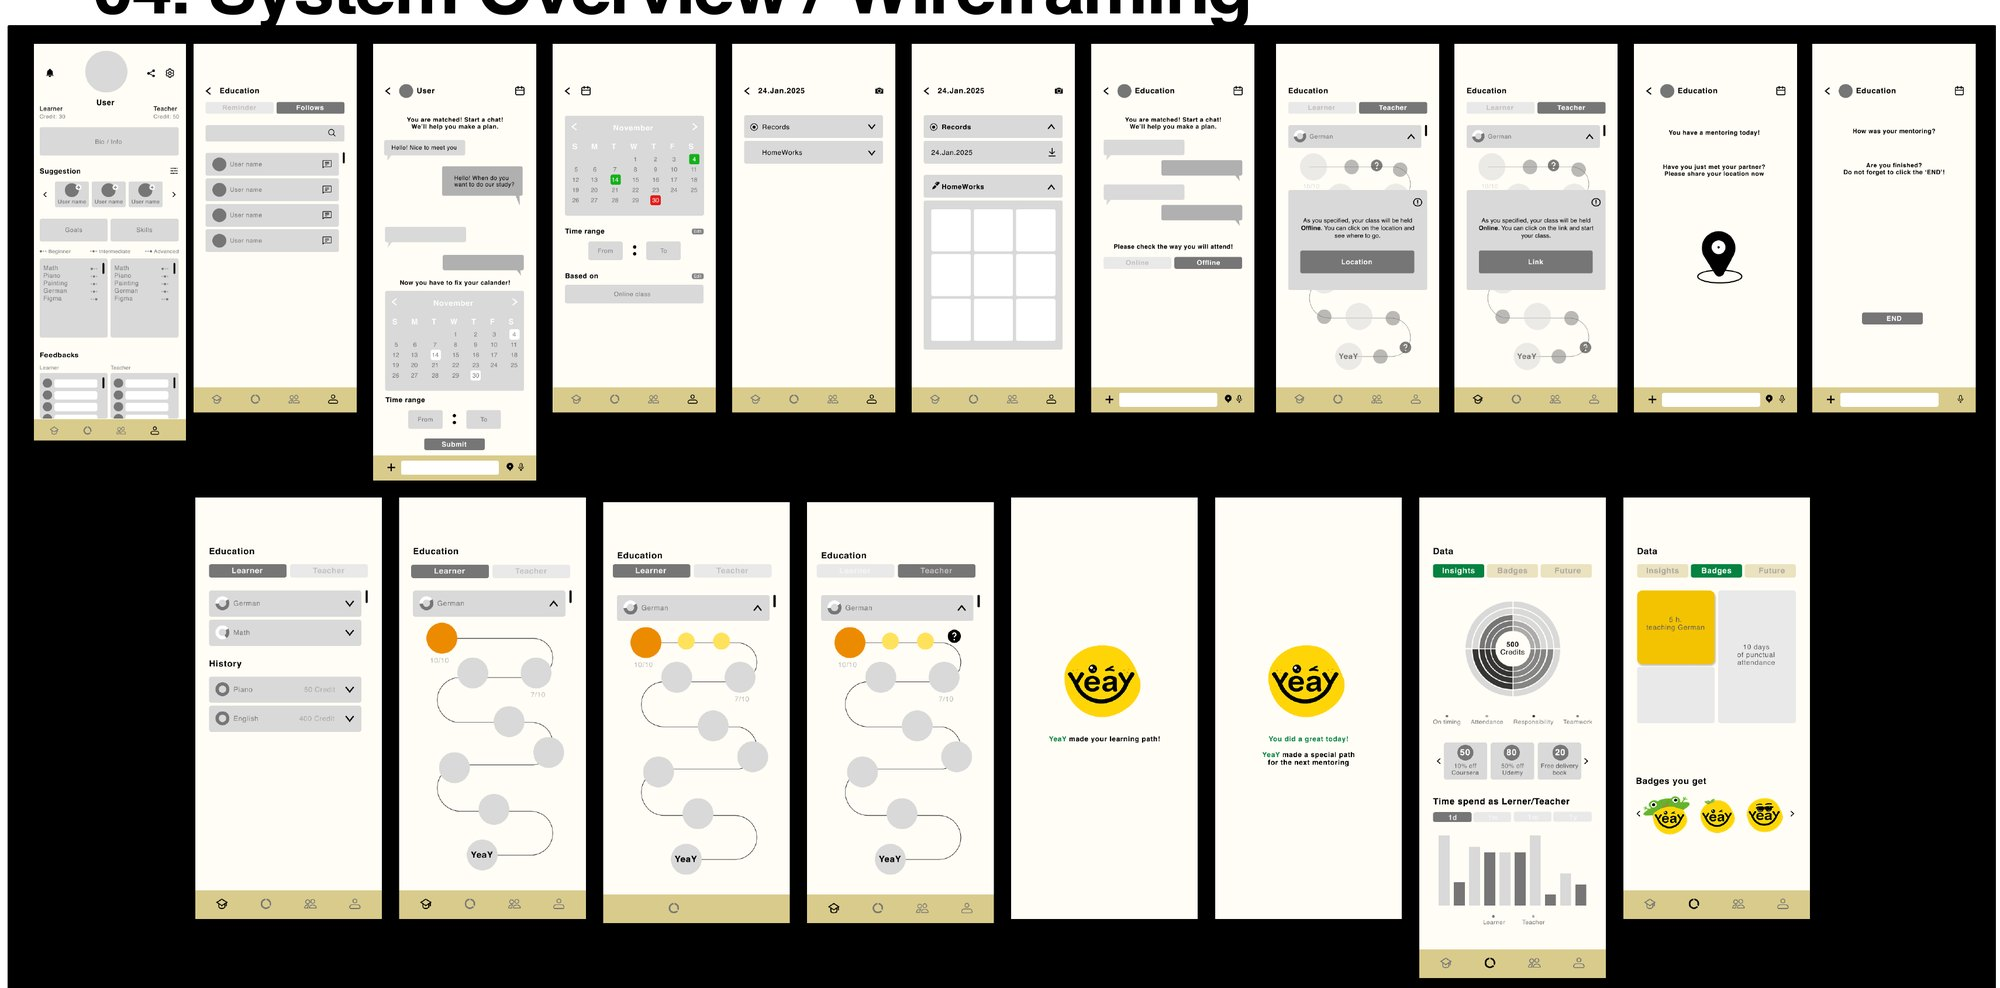
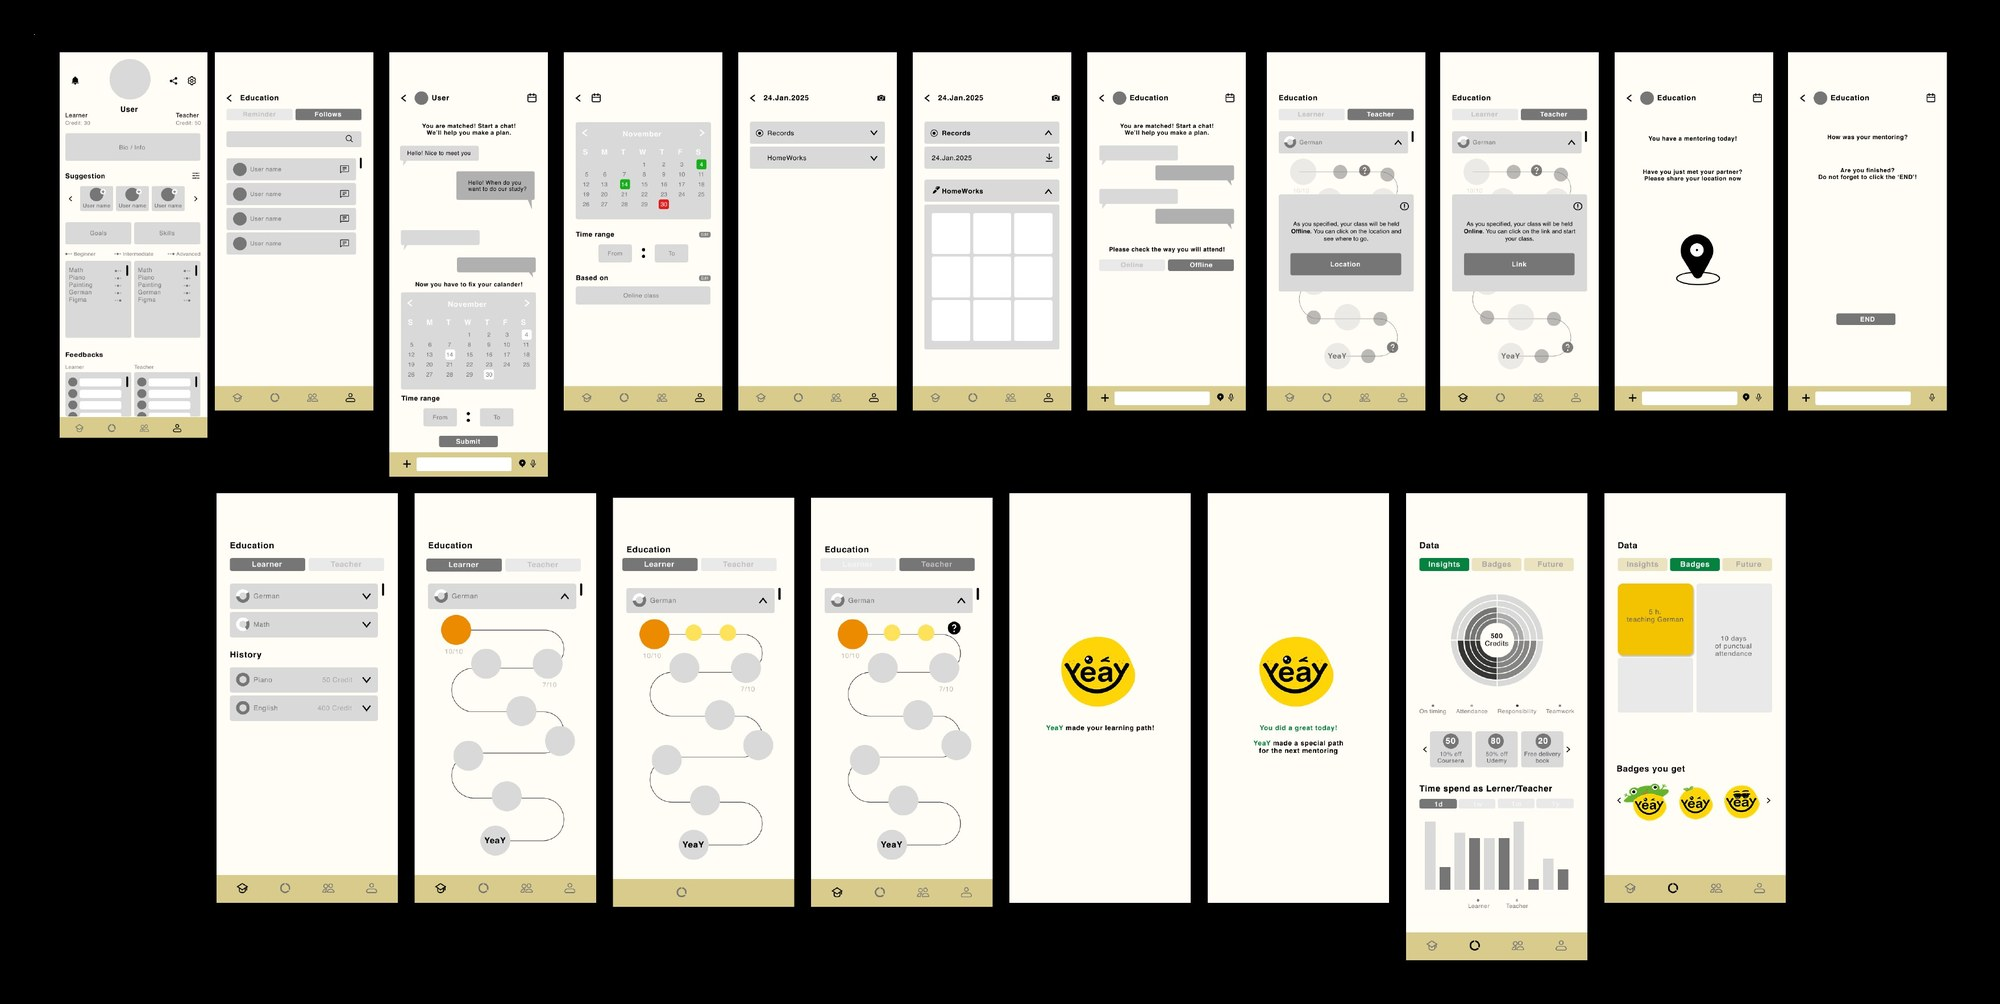
Links added (2026.10.24.Sat)
Figma prototype links - POOM, Bookiverse
CV links updated - UX, PM(Payments)

diff --git a/assets/app.js b/assets/app.js
@@ -218,6 +218,7 @@
     if (!bundle && location.hash) { var t = document.getElementById(location.hash.slice(1)); if (t) t.scrollIntoView(); }
     setupFilters();
     keepWords();
+    setupEmailCopy();
     if (!("IntersectionObserver" in window)) return;
     var links = [].slice.call(document.querySelectorAll(".menu a[data-sec]"));
     var screens = [].slice.call(document.querySelectorAll(".screen"));
@@ -247,6 +248,40 @@
     [].slice.call(document.querySelectorAll(".prose p, .how-cards p, .hero-intro, .card-summary, .tl p, .tl-bullets li, .cs-lede, .cs-body p, .cs-body li, .tldr dd, .contact-lede")).forEach(function (el) {
       var w = document.createTreeWalker(el, NodeFilter.SHOW_TEXT, null), n;
       while ((n = w.nextNode())) if (/\w-\w/.test(n.nodeValue)) n.nodeValue = n.nodeValue.replace(/(\w)-(?=\w)/g, "$1\u2011");
+    });
+  }
+
+  // Clicking an email address opens a small menu: write in Gmail or Outlook on the web, use the mail app, or copy.
+  function setupEmailCopy() {
+    [].slice.call(document.querySelectorAll('a[href^="mailto:"]')).forEach(function (a) {
+      a.addEventListener("click", function (e) {
+        e.preventDefault();
+        var addr = a.getAttribute("href").replace(/^mailto:/, ""), q = encodeURIComponent(addr);
+        var old = document.querySelector(".mail-menu"); if (old) old.remove();
+        var menu = document.createElement("div");
+        menu.className = "mail-menu"; menu.setAttribute("role", "dialog"); menu.setAttribute("aria-label", "Write an email");
+        menu.innerHTML = '<p class="micro">Write to ' + esc(addr) + "</p>" +
+          '<a href="https://mail.google.com/mail/?view=cm&fs=1&to=' + q + '" target="_blank" rel="noopener">Gmail <span aria-hidden="true">↗</span></a>' +
+          '<a href="https://outlook.office.com/mail/deeplink/compose?to=' + q + '" target="_blank" rel="noopener">Outlook <span aria-hidden="true">↗</span></a>' +
+          '<a href="mailto:' + esc(addr) + '">Mail app</a>' +
+          '<button type="button" class="mm-copy">Copy address</button>';
+        document.body.appendChild(menu);
+        var r = a.getBoundingClientRect();
+        menu.style.left = Math.min(r.left, window.innerWidth - menu.offsetWidth - 16) + "px";
+        menu.style.top = (r.bottom + 8 + menu.offsetHeight > window.innerHeight ? r.top - menu.offsetHeight - 8 : r.bottom + 8) + "px";
+        menu.querySelector(".mm-copy").addEventListener("click", function () {
+          var b2 = this; var ok = function () { b2.textContent = "Copied ✓"; setTimeout(function () { menu.remove(); }, 900); };
+          if (navigator.clipboard && navigator.clipboard.writeText) navigator.clipboard.writeText(addr).then(ok, ok); else ok();
+        });
+        [].slice.call(menu.querySelectorAll("a")).forEach(function (x) { x.addEventListener("click", function () { setTimeout(function () { menu.remove(); }, 50); }); });
+        setTimeout(function () {
+          var close = function (ev) { if (!menu.contains(ev.target)) { menu.remove(); document.removeEventListener("click", close); document.removeEventListener("keydown", esc2); window.removeEventListener("scroll", close2); } };
+          var esc2 = function (ev) { if (ev.key === "Escape") close({ target: document.body }); };
+          var close2 = function () { close({ target: document.body }); };
+          document.addEventListener("click", close); document.addEventListener("keydown", esc2); window.addEventListener("scroll", close2, { passive: true });
+        }, 0);
+        menu.querySelector("a").focus();
+      });
     });
   }
 
@@ -308,7 +343,7 @@
 
   function cvButton(m, view) {
     var cv = m["cv_" + view];
-    return cv ? '<a class="button" href="' + assetUrl(cv) + '" target="_blank" rel="noopener">Download CV (PDF)</a>' : "";
+    return cv ? '<a class="button" href="' + assetUrl(cv) + '" target="_blank" rel="noopener">View CV (PDF)</a>' : "";
   }
 
   function contact(site, view) {
@@ -484,13 +519,13 @@
         var rows = [];
         if (m.email) rows.push(["Email", '<a href="mailto:' + esc(m.email) + '">' + esc(m.email) + "</a>", "mail"]);
         if (m.linkedin) rows.push(["LinkedIn", '<a href="' + esc(m.linkedin) + '" target="_blank" rel="noopener">' + esc(m.linkedin.replace(/^https?:\/\/(www\.)?/, "").replace(/\/$/, "")) + "</a>", "out"]);
-        if (cv) rows.push(["CV", '<a href="' + assetUrl(cv) + '" target="_blank" rel="noopener">Download CV (PDF)</a>', "down"]);
+        if (cv) rows.push(["CV", '<a href="' + assetUrl(cv) + '" target="_blank" rel="noopener">View CV (PDF)</a>', "down"]);
         if (!rows.length) rows.push(["", '<mark class="todo">Email and LinkedIn go here</mark>', ""]);
         var lk = m.linkedin ? m.linkedin.replace(/^https?:\/\/(www\.)?/, "").replace(/\/$/, "") : "";
         var boxes = [];
         if (m.email) boxes.push(["Email", esc(m.email), "mailto:" + esc(m.email), '<svg viewBox="0 0 24 24" width="22" height="22" fill="none" stroke="currentColor" stroke-width="1.6" stroke-linejoin="round"><rect x="3" y="5.5" width="18" height="13" rx="2"/><path d="M3.5 7l8.5 6.5L20.5 7"/></svg>', ""]);
         if (m.linkedin) boxes.push(["LinkedIn", esc(lk), esc(m.linkedin), '<svg viewBox="0 0 24 24" width="22" height="22" fill="currentColor"><path d="M4.98 3.5a2.5 2.5 0 1 1 0 5 2.5 2.5 0 0 1 0-5zM3 9.75h4v11H3zM9.5 9.75h3.8v1.5h.06c.53-.95 1.83-1.95 3.77-1.95 4.03 0 4.77 2.5 4.77 5.75v5.7h-4v-5.05c0-1.2-.02-2.75-1.75-2.75-1.75 0-2.02 1.3-2.02 2.65v5.15h-4z"/></svg>', ' target="_blank" rel="noopener"']);
-        if (cv) boxes.push(["CV", "Download CV · PDF", assetUrl(cv), '<svg viewBox="0 0 24 24" width="22" height="22" fill="none" stroke="currentColor" stroke-width="1.6" stroke-linejoin="round" stroke-linecap="round"><path d="M14 3H7a2 2 0 0 0-2 2v14a2 2 0 0 0 2 2h10a2 2 0 0 0 2-2V8z"/><path d="M14 3v5h5"/><path d="M12 11v6M9.5 14.5L12 17l2.5-2.5"/></svg>', ' target="_blank" rel="noopener"']);
+        if (cv) boxes.push(["CV", "View CV · PDF", assetUrl(cv), '<svg viewBox="0 0 24 24" width="22" height="22" fill="none" stroke="currentColor" stroke-width="1.6" stroke-linejoin="round" stroke-linecap="round"><path d="M14 3H7a2 2 0 0 0-2 2v14a2 2 0 0 0 2 2h10a2 2 0 0 0 2-2V8z"/><path d="M14 3v5h5"/><path d="M12 11v6M9.5 14.5L12 17l2.5-2.5"/></svg>', ' target="_blank" rel="noopener"']);
         var contactSec = '<section class="section screen contact" id="contact" data-sec="contact"><div class="wrap c-center">' +
           '<p class="micro dot">04 — Contact</p><h2 class="section-title">' + inline(m["contact_title_" + view] || "Let’s talk.") + "</h2>" +
           '<p class="contact-lede">' + (m["contact_lede_" + view] ? m["contact_lede_" + view].split(" || ").map(inline).join("<br>") : "I’m looking for " + (view === "design" ? "UX and product design" : "product management") + " roles in Berlin and across Germany.") + "</p>" +
@@ -531,6 +566,7 @@
         (m["summary_" + r.view] ? '<p class="cs-lede">' + inline(m["summary_" + r.view]) + "</p>" : "") + box +
         ((m["image_" + r.view] || m.image) ? '<figure class="cs-cover"><img src="' + assetUrl(m["image_" + r.view] || m.image) + '" alt=""></figure>' : "") +
         '<dl class="cs-meta">' + meta + "</dl>" +
+        (m.prototype ? '<p class="cs-links"><a class="button" href="' + esc(m.prototype) + '" target="_blank" rel="noopener">View prototype in Figma <span aria-hidden="true">↗</span></a></p>' : "") +
         (m.note ? '<p class="cs-note">' + inline(m.note) + "</p>" : "") + "</section>" +
         '<article class="wrap cs-article">' + sections(markdown(doc.body)) + "</article>" +
         '<nav class="wrap cs-end">' + back + "</nav></main>" + contact(site, r.view);

diff --git a/assets/style.css b/assets/style.css
@@ -985,3 +985,11 @@ html body *, html body .prose p, html body .how-cards p, html body .hero-intro, 
 @media (min-width: 900px) and (max-height: 800px) { .how-cards li { padding: 0 22px !important; } .how-cards h3 { font-size: clamp(1.35rem, 1.9vw, 1.6rem) !important; padding: 12px 0; } .how-cards p { padding: 10px 0 !important; } }
 @media (min-width: 900px) and (min-height: 801px) { .how-cards h3 { font-size: clamp(1.45rem, 1.95vw, 1.75rem) !important; } }
 .hero-feedlayout .feed-title { font-size: 1.05rem !important; } .hero-feedlayout .feed-item { grid-template-columns: 96px minmax(0,1fr) auto !important; }
+.cs-links { margin: 8px 0 0; }
+.cs-links .button { font-size: 15px; padding: 12px 22px; }
+.copy-toast { position: fixed; left: 50%; bottom: 32px; transform: translate(-50%, 12px); z-index: 20; padding: 12px 20px; border-radius: 100px; background: var(--ink); color: var(--paper); font-size: 14px; opacity: 0; pointer-events: none; transition: opacity .2s, transform .2s; }
+.copy-toast.is-on { opacity: 1; transform: translate(-50%, 0); }
+.mail-menu { position: fixed; z-index: 30; min-width: 240px; padding: 14px; border-radius: 14px; background: var(--paper); border: 1px solid var(--hair); box-shadow: 0 12px 32px rgba(0,0,0,.12); display: grid; gap: 4px; }
+.mail-menu .micro { margin: 0 4px 6px !important; }
+.mail-menu a, .mail-menu button { display: flex; justify-content: space-between; align-items: center; padding: 10px 12px; border-radius: 8px; border: 0; background: transparent; font: inherit; font-size: 15px; color: var(--ink); text-decoration: none; text-align: left; cursor: pointer; }
+.mail-menu a:hover, .mail-menu button:hover, .mail-menu a:focus-visible { background: color-mix(in srgb, var(--accent) 8%, var(--paper)); color: var(--accent); }

diff --git a/content/site.md b/content/site.md
@@ -4,8 +4,8 @@ location: Berlin, Germany
 email: g.now0205@gmail.com
 linkedin: https://www.linkedin.com/in/jiw0npark
 photo: images/photo.jpg
-cv_design: cv/Jiwon_Park_CV_UX.pdf
-cv_product: cv/Jiwon_Park_CV_Payments_PM.pdf
+cv_design: https://drive.google.com/file/d/1eR8KlN-XlZzvYY5IilSXTUrT4L-DxtXQ/view?usp=sharing
+cv_product: https://drive.google.com/file/d/1aQUIFYs23xZOWo7NZhJKKT8G1KqFESK9/view?usp=sharing
 
 # First screen, per view
 design_role: UX / Product Designer

diff --git a/content/cases/poom.md b/content/cases/poom.md
@@ -12,6 +12,7 @@ grade: 94.1 / 100
 outcome: Prototype tested with one participant; master's thesis graded 94.1/100
 result: Grade 94.1 / 100
 line_design: A wellbeing app where rest counts as progress, built on the flow of Taekwondo poomsae
+prototype: https://www.figma.com/proto/IQ1vXXbg8gIHiIltZjXSFI/Graduation-thesis?page-id=8%3A27&node-id=150-666&starting-point-node-id=150%3A666&scaling=contain&content-scaling=fixed&show-proto-sidebar=1
 ---
 
 ## Background

diff --git a/content/cases/bookiverse.md b/content/cases/bookiverse.md
@@ -12,6 +12,7 @@ grade: 92 / 100
 outcome: Capstone graded 92/100; not yet tested with real users
 result: Grade 92 / 100
 line_design: Readers discover and support new authors; authors see who reads them and what they think
+prototype: https://www.figma.com/proto/xbSBs3UBhM9zGSCKYWB5wA/Capstone-Project_Bookiverse?page-id=0%3A1&node-id=20-296&starting-point-node-id=20%3A296&scaling=scale-down&content-scaling=fixed&show-proto-sidebar=1
 ---
 
 ## Background
